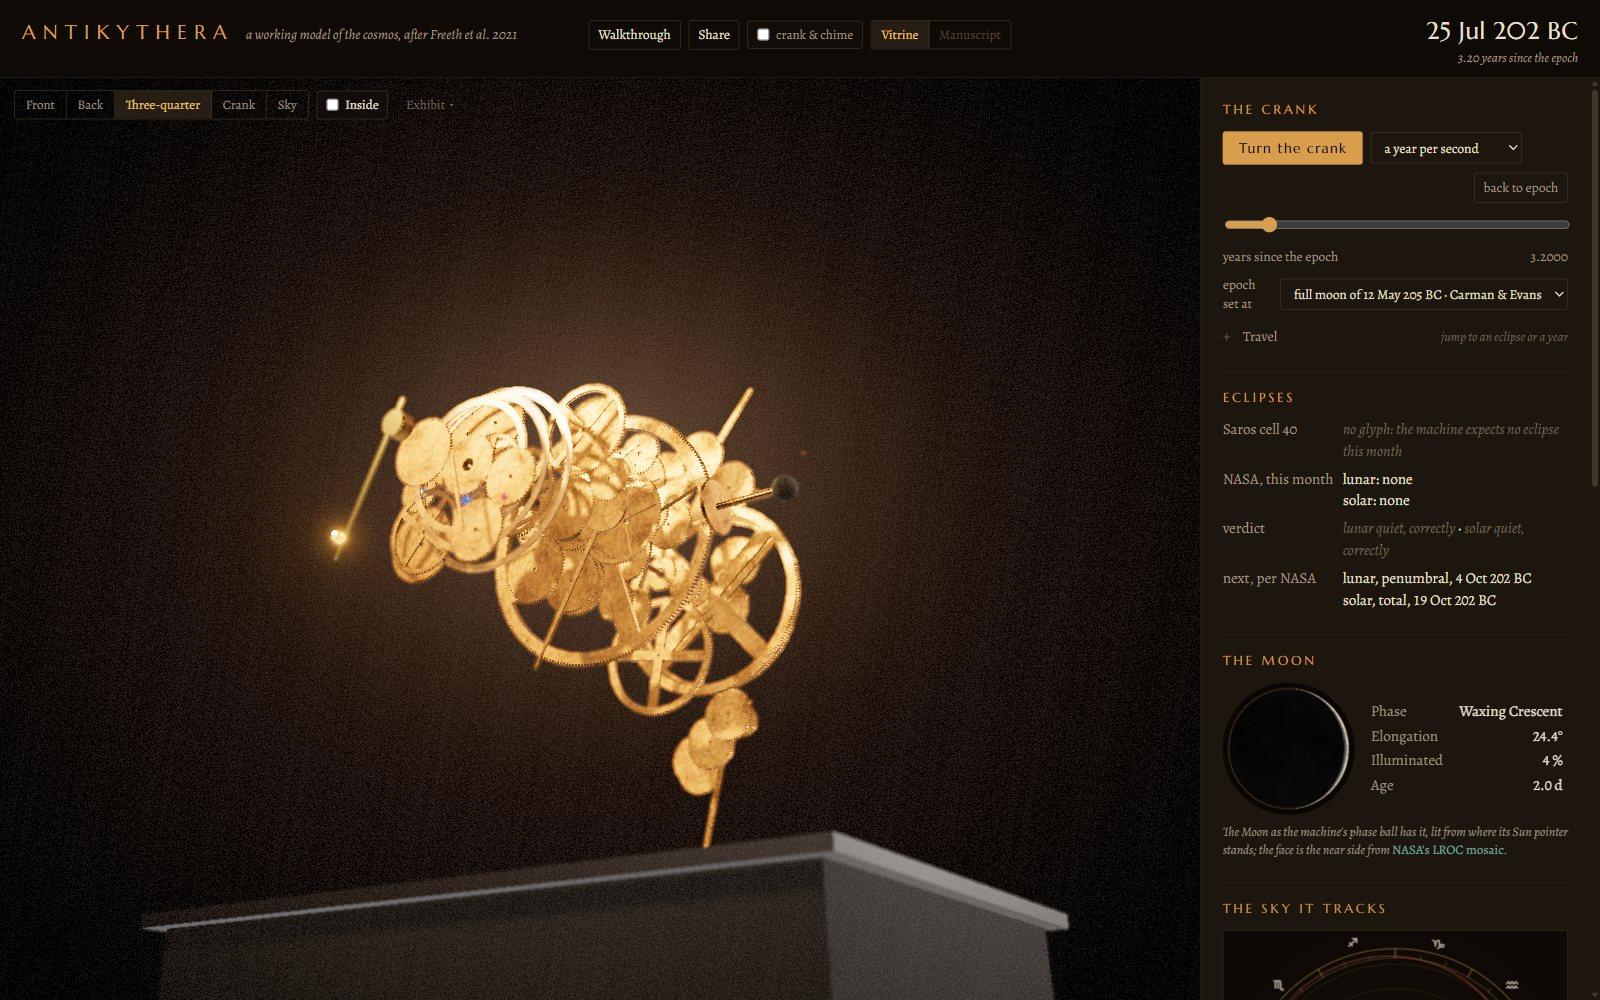
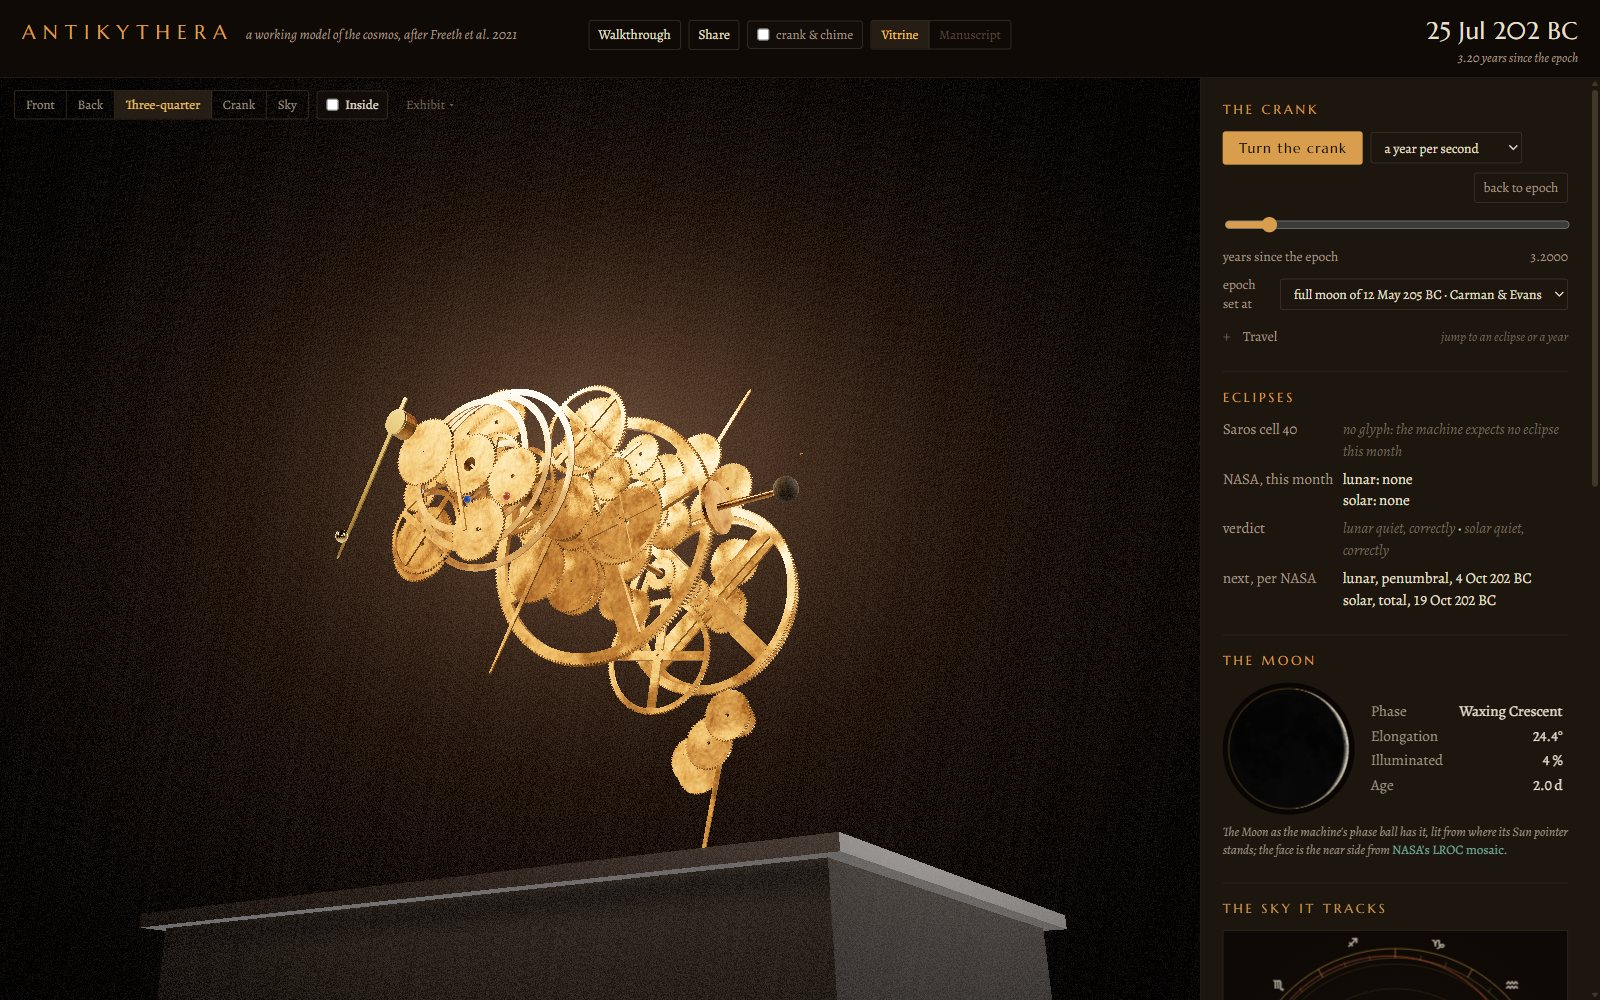
Four pointers were drawn about a pivot off their arbor, and the case had no wall on the inside
Stewart on leaf 9: the Games pointer seemed to pivot on its point. It did, and so did three others.

gltf-transform's quantize pass folds a mesh's centre into the node's own translation when the node
has no children to carry it. The Metonic and Saros pointers have follower pins, the planet rings have
stones, the Moon its disc, so those kept their pivots. The date, Games, Callippic and Exeligmos
pointers have nothing, so their translations were overwritten: 33.6 mm off the axis for the date
pointer, 4 mm for the three small ones. The machine writes each pointer's assembly offset onto
exactly those nodes, so the offset swung the pointer round the arbor instead of turning it on the
arbor. At this epoch the Games and Callippic offsets are both a half turn, which put the tip the
wrong side of the arbor and the blunt hub out at the rim.

web/src/mech/pivots.ts hangs each displaced pointer under a pivot on its arbor before the graph reads
am_pointer, which is what Blender exported in the first place. At load rather than in the export,
because the optimiser will do it again to any pointer that loses its last child.

Nothing the exhibit reports was ever wrong: the angle is the sum up the chain and that was already
right. All ten displays read the same to four decimals before and after. Only the drawing was wrong.

The case, separately: the boards are solid and double-sided, but the lining that covers their smeared
[…]

Changed region(s): [[0.1875, 0.372, 0.5, 0.868], [0.5, 0.837, 0.5625, 0.868]]

diff --git a/web/src/scene/viewer.ts b/web/src/scene/viewer.ts
@@ -22,6 +22,7 @@ import { ShaderPass } from "three/examples/jsm/postprocessing/ShaderPass.js";
 import { UnrealBloomPass } from "three/examples/jsm/postprocessing/UnrealBloomPass.js";
 import { BokehPass } from "three/examples/jsm/postprocessing/BokehPass.js";
 import { GearGraph } from "../mech/gearGraph";
+import { restorePointerPivots } from "../mech/pivots";
 import { Trails } from "./trails";
 import { canvasToBlob } from "../ui/snapshot";
 
@@ -285,6 +286,7 @@ export class Viewer {
   theme: Theme = "vitrine";
   private bloomBase = 0.55;
   private wood: { mat: THREE.MeshStandardMaterial; base: THREE.Color } | null = null;
+  private lining: THREE.MeshStandardMaterial | null = null;
   private plate: { mat: THREE.MeshPhysicalMaterial; base: THREE.Color } | null = null;
   /** Every wheel pushed out along its arbor: built once from the graph; `f` is how far out each one is (0 home, 1 apart). */
   private apartItems: { o: THREE.Object3D; z0: number; off: number; wz: number; f: number }[] | null = null;
@@ -433,6 +435,7 @@ export class Viewer {
     loader.setMeshoptDecoder(MeshoptDecoder);
     loader.load(opts.url, (gltf) => {
       this.root = gltf.scene;
+      restorePointerPivots(this.root);                                // before the graph reads am_pointer
       this.dressMaterials(this.root);
       this.scene.add(this.root);
       this.graph = new GearGraph(this.root);
@@ -630,6 +633,7 @@ export class Viewer {
       this.wood.mat.color.copy(this.wood.base).multiplyScalar(m ? 1.15 : 0.85);
       this.wood.mat.envMapIntensity = m ? 0.8 : 0.55;
       this.wood.mat.roughness = m ? 0.72 : 0.82;
+      this.tuneLining();                                           // the inside of the case follows the outside
     }
     this.tunePlate();
   }
@@ -637,12 +641,24 @@ export class Viewer {
   /**
    * The inside of the box is dark. The plates sit 10 mm inside the case, so the boards' inner
    * faces show as a lit frame around each dial; by day, in pale oak, that frame read as gaps in
-   * the geometry. Four thin dark boards line the case (left, right, top, bottom) and follow the
-   * case in every way (Inside, the case box, the overture) by joining its role.
+   * the geometry. Four boards line the case (left, right, top, bottom) and follow the case in
+   * every way (Inside, the case box, the overture) by joining its role.
+   *
+   * The lining is the wood of the case in shadow, not a flat dark panel. A panel was what it
+   * was, and looking in through the dial it read as a hole: textured board on the outside,
+   * nothing on the inside. The lining takes the wood's own material and maps it at the boards'
+   * own 120 mm of surface to the UV unit, so the grain runs on at the right size and a wall
+   * looks like a wall from either side.
    */
   private lineCase(): void {
     if (!this.graph || !this.root) return;
-    const mat = new THREE.MeshStandardMaterial({ color: 0x2a1f16, roughness: 0.95, metalness: 0, envMapIntensity: 0.3 });
+    const UV_SPAN = 120;                                         // the case boards' own, from blender/dials.py
+    const wood = this.wood?.mat;
+    const mat = wood ? wood.clone() : new THREE.MeshStandardMaterial({ color: 0x2a1f16, roughness: 0.95, metalness: 0 });
+    mat.name = "WoodLining";
+    mat.envMapIntensity = 0.3;
+    this.lining = mat;
+    this.tuneLining();
     const specs: [[number, number, number], [number, number, number], [number, number]][] = [
       [[-80.7, -10, -4], [0, Math.PI / 2, 0], [90, 322]],
       [[80.7, -10, -4], [0, -Math.PI / 2, 0], [90, 322]],
@@ -651,7 +667,10 @@ export class Viewer {
     ];
     const list = this.graph.roles.get("case") ?? [];
     for (const [pos, rot, [w, h]] of specs) {
-      const m = new THREE.Mesh(new THREE.PlaneGeometry(w, h), mat);
+      const geom = new THREE.PlaneGeometry(w, h);
+      const uv = geom.attributes.uv;                              // 0..1 as it comes; the wood wants millimetres
+      for (let i = 0; i < uv.count; i++) uv.setXY(i, uv.getX(i) * (w / UV_SPAN), uv.getY(i) * (h / UV_SPAN));
+      const m = new THREE.Mesh(geom, mat);
       m.position.set(...pos);
       m.rotation.set(...rot);
       m.receiveShadow = true;
@@ -661,6 +680,14 @@ export class Viewer {
       list.push(m);
     }
     this.graph.roles.set("case", list);
+  }
+
+  /** The lining follows the wood, half its light: the inside of a box, not the outside of one. */
+  private tuneLining(): void {
+    const wood = this.wood?.mat;
+    if (!this.lining || !wood) return;
+    this.lining.color.copy(wood.color).multiplyScalar(0.5);
+    this.lining.roughness = Math.min(1, wood.roughness * 1.1);
   }
 
   /** Swap in the theme's HDRI once it has loaded (the hand-built room stands in until then). */

diff --git a/web/src/mech/pivots.test.ts b/web/src/mech/pivots.test.ts
@@ -1,0 +1,94 @@
+import { Object3D, Vector3 } from "three";
+import { describe, expect, it } from "vitest";
+import { restorePointerPivots } from "./pivots";
+
+/**
+ * The shape of what the optimiser leaves behind: an arbor that the gear train turns, and a
+ * pointer node whose mesh centre has been folded into its own translation. `tip` stands for the
+ * far end of the pointer, 5.8 mm beyond that centre, which is what a visitor reads.
+ */
+function machine(): { arbor: Object3D; pointer: Object3D; tip: Object3D; root: Object3D } {
+  const root = new Object3D();
+  const arbor = new Object3D();
+  arbor.position.set(-26.86, 58.18, 0);                  // the Games arbor, o1
+  root.add(arbor);
+  const pointer = new Object3D();
+  pointer.name = "ptr_games";
+  pointer.position.set(4, 0, -10.55);                    // mesh centre folded in by quantize
+  pointer.userData.am_pointer = "games";
+  pointer.userData.am_role = "pointer";
+  arbor.add(pointer);
+  const tip = new Object3D();
+  tip.position.set(5.8, 0, 0);
+  pointer.add(tip);
+  return { arbor, pointer, tip, root };
+}
+
+/** Where the machine writes a display's assembly offset, and the world point the tip reaches. */
+function readTip(root: Object3D, display: string, offset: number): Vector3 {
+  let turned: Object3D | null = null;
+  root.traverse((o) => { if (o.userData.am_pointer === display) turned = o; });
+  (turned as unknown as Object3D).rotation.z = offset;
+  root.updateMatrixWorld(true);
+  let tip: Object3D | null = null;
+  root.traverse((o) => { if (o.children.length === 0 && o.position.x === 5.8) tip = o; });
+  return (tip as unknown as Object3D).getWorldPosition(new Vector3());
+}
+
+describe("pointer pivots", () => {
+  it("hangs a displaced pointer under a pivot on its arbor, keeping its offset", () => {
+    const { arbor, pointer, root } = machine();
+    expect(restorePointerPivots(root)).toEqual(["ptr_games"]);
+    const pivot = pointer.parent as Object3D;
+    expect(pivot.name).toBe("ptr_games_pivot");
+    expect(pivot.parent).toBe(arbor);
+    expect([pivot.position.x, pivot.position.y, pivot.position.z]).toEqual([0, 0, -10.55]);
+    expect([pointer.position.x, pointer.position.y, pointer.position.z]).toEqual([4, 0, 0]);
+  });
+
+  it("gives the pivot the display, so the machine turns the pivot and not the mesh", () => {
+    const { pointer, root } = machine();
+    restorePointerPivots(root);
+    expect((pointer.parent as Object3D).userData.am_pointer).toBe("games");
+    expect(pointer.userData.am_pointer).toBeUndefined();
+    expect(pointer.userData.am_role).toBe("pointer");     // the visibility groups still find the mesh
+  });
+
+  it("turns a half-turn offset on the arbor rather than swinging the pointer round it", () => {
+    const halfTurn = readTip(machine().root, "games", Math.PI);
+    // unmended, the body sits at bearing 0 and points back the way it came: the tip falls short
+    // of the arbor, which is the pointer reading backwards on its own point
+    expect(halfTurn.x - -26.86).toBeCloseTo(4 - 5.8, 6);
+
+    const mended = machine();
+    restorePointerPivots(mended.root);
+    const fixed = readTip(mended.root, "games", Math.PI);
+    // mended, half a turn puts the tip 9.8 mm the other side of the arbor, where it belongs
+    expect(fixed.x - -26.86).toBeCloseTo(-(4 + 5.8), 6);
+    expect(fixed.y - 58.18).toBeCloseTo(0, 6);
+  });
+
+  it("keeps the total angle the ledger reads, so the numbers never depended on the mend", () => {
+    const mended = machine();
+    restorePointerPivots(mended.root);
+    let sum = 0;
+    let o: Object3D | null = mended.tip;
+    mended.root.traverse((n) => { if (n.userData.am_pointer === "games") n.rotation.z = 1.234; });
+    while (o) { sum += o.rotation.z; o = o.parent; }
+    expect(sum).toBeCloseTo(1.234, 9);                    // the pivot's angle and nothing else
+  });
+
+  it("leaves a pointer already on its arbor alone", () => {
+    const root = new Object3D();
+    const arbor = new Object3D();
+    root.add(arbor);
+    const pointer = new Object3D();
+    pointer.name = "ptr_metonic";
+    pointer.position.set(0, 0, -25.7);                    // the ones with a follower pin came out right
+    pointer.userData.am_pointer = "metonic";
+    arbor.add(pointer);
+    expect(restorePointerPivots(root)).toEqual([]);
+    expect(pointer.parent).toBe(arbor);
+    expect(pointer.userData.am_pointer).toBe("metonic");
+  });
+});

diff --git a/web/src/mech/pivots.ts b/web/src/mech/pivots.ts
@@ -1,0 +1,52 @@
+/**
+ * Put every pointer's pivot back on its arbor.
+ *
+ * `gltf-transform optimize` packs mesh positions into a quantized range and makes up for it
+ * with a transform on the node that carries the mesh: the mesh comes out centred on its own
+ * origin, and the node is moved to where that centre belongs. For a node nothing ever turns
+ * that is invisible. These nodes are turned: the machine writes each pointer's assembly
+ * offset onto the node named in `am_pointer`, and with the mesh's centre living in the node's
+ * own translation the offset swings the pointer bodily round the arbor instead of turning it
+ * on the arbor. The pointer then reads backwards, and looks as though it pivots on its point.
+ *
+ * Only the pointers with nothing hanging off them were hit, because a node with children could
+ * not take the compensation and had to be given a child of its own to carry it: the Metonic and
+ * Saros pointers have their follower pins, the planet rings their stones, the Moon its disc. The
+ * date pointer, the Games, Callippic and Exeligmos pointers have nothing, so they took it.
+ *
+ * Here each such node is hung under a new pivot sitting on the arbor, keeping the offset as its
+ * own translation, and the pivot inherits `am_pointer`, so what the machine turns is the pivot
+ * and the offset turns with it. That is the arrangement Blender exported in the first place.
+ * The node keeps `am_role`, so the visibility groups still find the mesh.
+ *
+ * It is done at load rather than in the export because it is the optimiser's doing, and the
+ * optimiser will do it again to any pointer that loses its last child.
+ */
+import { Object3D } from "three";
+
+/** How far off the arbor a node has to sit before it counts as displaced, in mm. */
+const SLOP = 1e-4;
+
+/** Hangs displaced pointers under pivots on their arbors. Returns the names it moved. */
+export function restorePointerPivots(root: Object3D): string[] {
+  const displaced: Object3D[] = [];
+  root.traverse((o) => {
+    if (typeof (o.userData as Record<string, unknown>).am_pointer !== "string") return;
+    if (Math.hypot(o.position.x, o.position.y) > SLOP) displaced.push(o);
+  });
+  const moved: string[] = [];
+  for (const node of displaced) {
+    const arbor = node.parent;
+    if (!arbor) continue;                                   // a pointer with no arbor is not ours to move
+    const pivot = new Object3D();
+    pivot.name = `${node.name}_pivot`;
+    pivot.position.set(0, 0, node.position.z);              // on the arbor, at the pointer's depth
+    pivot.userData.am_pointer = node.userData.am_pointer;
+    delete (node.userData as Record<string, unknown>).am_pointer;
+    arbor.add(pivot);
+    pivot.add(node);                                        // keeps the node's own x and y
+    node.position.z = 0;
+    moved.push(node.name);
+  }
+  return moved;
+}

diff --git a/NOTES.md b/NOTES.md
@@ -401,3 +401,36 @@ See README "Attributions" for licences.
   contain` so the page behind does not move). `--onboard-bottom` carries the offset the narrow and
   manuscript blocks already set, so each keeps its own. Folded mode is untouched, and nothing
   changes on a window tall enough to have shown the whole card before.
+- 2026-09-18 Stewart, on the Games dial at walkthrough leaf 9: "the dial on the right seems flipped,
+  it's rotating around the pointy end." He was right, and it was four pointers, not one. **What the
+  optimiser did:** `gltf-transform optimize` packs mesh positions into a quantized range and makes up
+  for it with a transform on the node carrying the mesh, so the mesh comes out centred on its own
+  origin and the node moves to where that centre belongs. A node with children cannot take the
+  compensation and is given a child to carry it instead. The Metonic and Saros pointers have follower
+  pins, the planet rings have stones, the Moon has its disc: those kept their pivots on the arbor. The
+  date, Games, Callippic and Exeligmos pointers have no children, so their own translations were
+  overwritten: `ptr_date` sat 33.6 mm off b1's axis, the three small ones 4 mm off theirs. The machine
+  writes each pointer's assembly offset onto exactly those nodes, so the offset swung the pointer
+  bodily round the arbor instead of turning it on the arbor: the body lay at bearing φ while pointing
+  along φ+θ. At this epoch the Games and Callippic offsets are both a half turn (the epoch falls in
+  games year 3 and Callippic quarter 2), which put the tip 1.8 mm the wrong side of the arbor and the
+  blunt hub out at the 9.5 mm rim, exactly as Stewart described. Exeligmos escaped notice only because
+  its offset is zero at this epoch; at another epoch it would have gone the same way.
+  **The mend** is `web/src/mech/pivots.ts`, called on the loaded scene before `GearGraph` reads
+  `am_pointer`: each displaced pointer is hung under a new pivot on the arbor, keeps its offset as its
+  own translation, and the pivot inherits `am_pointer`, which is Blender's arrangement restored. Done
+  at load rather than in the export because the optimiser will do it again to any pointer that loses
+  its last child. Five tests in `pivots.test.ts` hold the geometry, including that the total angle up
+  the chain is unchanged. **Nothing the exhibit reports was ever wrong**: `reading()` sums rotation.z
+  up the chain and that sum was already right. Checked by reading all ten displays at 3 years from the
+  deployed build and the mended one: identical to four decimals. Only the drawing was wrong.
+- 2026-09-18 Stewart, on the case: "the wooden box is like a two way mirror, on the outside it's
+  textured but from the inside it looks like there's no wall there." The boards are solid and
+  double-sided, so nothing was missing; what he was seeing was `lineCase`'s lining. The boards' inner
+  faces take the box unwrap's narrow 9 mm strip of u across their 90 mm of depth, so the grain smears
+  into vertical streaks, and the lining was added (2026-09-13) to cover that with a dark panel. Flat,
+  untextured and near-black in the vitrine, the panel read as a hole. The lining is now the wood's own
+  material cloned and taken to half its light, with the plane's UVs scaled to the boards' own 120 mm
+  to the UV unit, so the grain runs on at the right size and follows the theme through `tuneLining`.
+  The deeper fix, giving the case boards a proper box unwrap in `box_bm`, would want a Blender rebuild
+  and is in NEXT_STEPS.

diff --git a/NEXT_STEPS.md b/NEXT_STEPS.md
@@ -25,6 +25,12 @@ needs a paid plan for that. `docs/index.html` is the page, `docs/screens/` the s
 - 2026-09-18: the deferred minors cleared, the three-quarter view pulled back so the case is not
   shaved off at wide aspects, the README rewritten around eight screenshots of the running exhibit,
   and the project page written. The decisions are in NOTES.md under 2026-09-18.
+- 2026-09-18, after release: four pointers (date, Games, Callippic, Exeligmos) were being drawn about
+  a pivot off their arbor, because `gltf-transform optimize` folds a mesh's centre into the node's own
+  translation when that node has no children. `web/src/mech/pivots.ts` puts the pivot back at load.
+  Watch for it: a pointer that loses its last child will be hit the same way, and the tell is a
+  pointer that reads backwards or seems to turn about its point. The case lining is wood now, not a
+  flat dark panel.
 
 ## Maintenance guide (for sessions at any effort level)
 
@@ -77,6 +83,10 @@ the sources or something deliberately out of scope:
   a long-exposure trail on the Sky stage at ten years a second.
 - If a slow GPU ever matters more: the two-round quality guard could be given a third round, or the
   service worker could precache the model on install for kiosks.
+- The case boards' inner faces take the box unwrap's 9 mm strip of u across 90 mm of depth, so the
+  grain smears; `lineCase` covers them with wood at the right scale, but a proper box unwrap in
+  `box_bm` (blender/dials.py) would fix both faces and let the lining go. Wants a Blender rebuild,
+  the three gltf-transform steps and a `CACHE` bump.
 - If the repository ever goes public, the project page and the README are ready for it; check that
   `docs/plans/` and `docs/research/` read the way you want them read in the open, since Pages serves
   the whole `docs` folder.
